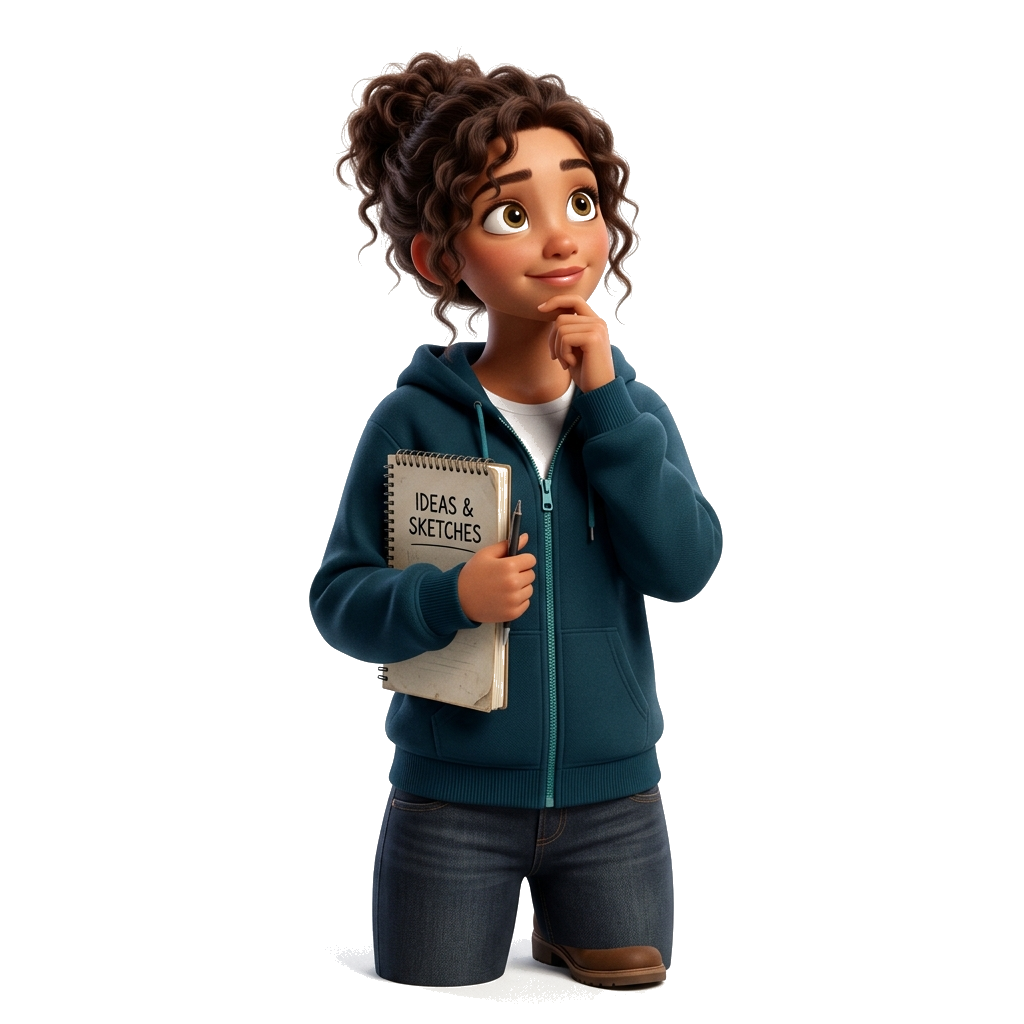
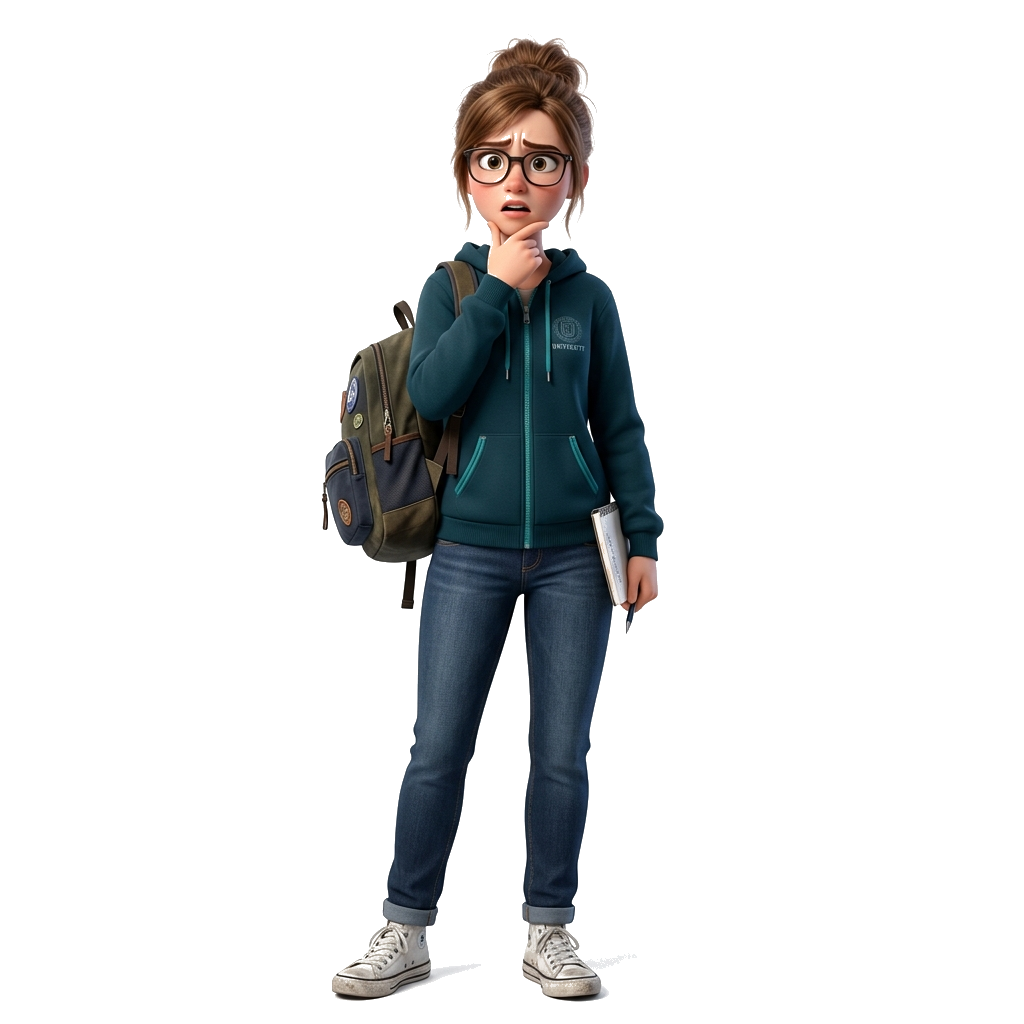
guiest hero v5

Changed region(s): [[0.2812, 0.0312, 0.7188, 1.0]]

diff --git a/src/components/home/GuestHero.jsx b/src/components/home/GuestHero.jsx
@@ -1,30 +1,46 @@
 import React from 'react';
 import { motion } from 'framer-motion';
 import {
-  Sparkles, ArrowRight, CheckCircle2, Building2,
+  ArrowRight, CheckCircle2, Building2,
   GraduationCap, Users, Award, Globe, ShieldCheck
 } from 'lucide-react';
 import { useAuth } from '../../context/AuthContext';
+import Particles from './HeroOnboarding/Particles';
 
-/* ── Thought Bubble Component (Pops out from around avatar body) ── */
-function ThoughtBubble({ text, className, delay = 0 }) {
+/* ── Surrounding Thought Bubble (Shoots out from body to surrounding 4 positions) ── */
+function SurroundingThoughtBubble({ text, className, delay = 0, initialOffset = { x: 0, y: 20 }, tailPosition = "bottom-left" }) {
+  const getTailClass = () => {
+    switch (tailPosition) {
+      case 'bottom-right':
+        return 'absolute -bottom-1.5 right-4 sm:right-6 w-3 h-3 bg-white dark:bg-zinc-900 border-r border-b border-[#0097B2]/30 dark:border-zinc-800 rotate-45';
+      case 'bottom-left':
+        return 'absolute -bottom-1.5 left-4 sm:left-6 w-3 h-3 bg-white dark:bg-zinc-900 border-r border-b border-[#0097B2]/30 dark:border-zinc-800 rotate-45';
+      case 'right':
+        return 'absolute top-3 -right-1.5 w-3 h-3 bg-white dark:bg-zinc-900 border-t border-r border-[#0097B2]/30 dark:border-zinc-800 rotate-45';
+      case 'top-left':
+        return 'absolute -top-1.5 left-4 sm:left-6 w-3 h-3 bg-white dark:bg-zinc-900 border-t border-l border-[#0097B2]/30 dark:border-zinc-800 rotate-45';
+      default:
+        return 'absolute -bottom-1.5 left-4 sm:left-6 w-3 h-3 bg-white dark:bg-zinc-900 border-r border-b border-[#0097B2]/30 dark:border-zinc-800 rotate-45';
+    }
+  };
+
   return (
     <motion.div
-      initial={{ opacity: 0, scale: 0, y: 35, x: -15 }}
-      animate={{ opacity: 1, scale: 1, y: 0, x: 0 }}
+      initial={{ opacity: 0, scale: 0, ...initialOffset }}
+      animate={{ opacity: 1, scale: 1, x: 0, y: 0 }}
       transition={{
-        duration: 0.5,
+        duration: 0.55,
         delay: delay,
         type: 'spring',
-        stiffness: 240,
-        damping: 18
+        stiffness: 220,
+        damping: 16
       }}
-      whileHover={{ scale: 1.07, y: -4, zIndex: 30 }}
-      className={`relative px-3.5 py-2 sm:px-4 sm:py-2.5 rounded-2xl bg-white/95 dark:bg-zinc-900/95 backdrop-blur-md border border-[#0097B2]/25 dark:border-zinc-800 shadow-lg shadow-[#0097B2]/10 text-slate-800 dark:text-zinc-200 text-[11px] sm:text-xs font-extrabold whitespace-nowrap cursor-pointer z-20 ${className}`}
+      whileHover={{ scale: 1.08, y: -4, zIndex: 40 }}
+      className={`absolute px-2.5 py-1.5 sm:px-4 sm:py-2.5 rounded-2xl bg-white/95 dark:bg-zinc-900/95 backdrop-blur-md border border-[#0097B2]/30 dark:border-zinc-800 shadow-xl shadow-[#0097B2]/15 text-slate-800 dark:text-zinc-100 text-[10px] sm:text-xs font-extrabold whitespace-nowrap cursor-pointer z-30 ${className}`}
     >
       <span className="relative z-10">{text}</span>
-      {/* Speech bubble tail indicator */}
-      <div className="absolute -bottom-1.5 left-4 w-3 h-3 bg-white dark:bg-zinc-900 border-r border-b border-[#0097B2]/25 dark:border-zinc-800 rotate-45" />
+      {/* Speech bubble tail indicator pointing directly to avatar */}
+      <div className={getTailClass()} />
     </motion.div>
   );
 }
@@ -33,9 +49,9 @@ export default function GuestHero() {
   const { openAuthModal } = useAuth();
 
   return (
-    <section className="relative overflow-hidden pt-8 pb-16 min-h-[90vh] flex flex-col justify-between">
+    <section className="relative overflow-hidden pt-6 sm:pt-8 pb-12 sm:pb-16 min-h-[90vh] flex flex-col justify-between">
       
-      {/* ── Background: Brand Academic Clarity Palette (Ice Teal → Crisp White → Ice Teal) ── */}
+      {/* ── Background: Brand Academic Clarity Palette ── */}
       <div
         className="absolute inset-0 -z-20"
         style={{
@@ -51,52 +67,85 @@ export default function GuestHero() {
         }}
       />
 
-      {/* Glowing Ambient Radial Orbs in Brand Teal */}
-      <div className="absolute top-10 left-10 w-96 h-96 bg-[#0097B2]/10 dark:bg-[#0097B2]/20 rounded-full blur-3xl pointer-events-none -z-10 animate-pulse" />
-      <div className="absolute bottom-10 right-10 w-96 h-96 bg-[#004B59]/10 dark:bg-[#004B59]/20 rounded-full blur-3xl pointer-events-none -z-10 animate-pulse" />
+      {/* ── Floating ambient animated particles (From Login Hero) ── */}
+      <Particles />
 
-      {/* Decorative Background Doodles (Question marks & Lightbulb aura) */}
-      <div className="absolute top-12 left-12 text-[#0097B2]/30 dark:text-[#0097B2]/40 text-5xl font-black select-none pointer-events-none -z-10 animate-bounce" style={{ animationDuration: '4s' }}>
+      {/* Glowing Ambient Radial Orbs in Brand Teal */}
+      <div className="absolute top-10 left-10 w-72 sm:w-96 h-72 sm:h-96 bg-[#0097B2]/10 dark:bg-[#0097B2]/20 rounded-full blur-3xl pointer-events-none -z-10 animate-pulse" />
+      <div className="absolute bottom-10 right-10 w-72 sm:w-96 h-72 sm:h-96 bg-[#004B59]/10 dark:bg-[#004B59]/20 rounded-full blur-3xl pointer-events-none -z-10 animate-pulse" />
+
+      {/* Decorative Background Doodles */}
+      <div className="absolute top-12 left-4 sm:left-12 text-[#0097B2]/30 dark:text-[#0097B2]/40 text-4xl sm:text-5xl font-black select-none pointer-events-none -z-10 animate-bounce" style={{ animationDuration: '4s' }}>
         ?
       </div>
-      <div className="absolute top-28 left-1/4 text-[#004B59]/25 text-3xl font-black select-none pointer-events-none -z-10">
+      <div className="absolute top-28 left-1/4 text-[#004B59]/25 text-2xl sm:text-3xl font-black select-none pointer-events-none -z-10">
         ?
       </div>
-      <div className="absolute top-16 right-16 text-amber-400/50 text-4xl select-none pointer-events-none -z-10">
+      <div className="absolute top-16 right-4 sm:right-16 text-amber-400/50 text-3xl sm:text-4xl select-none pointer-events-none -z-10">
         💡
       </div>
 
       <div className="max-w-7xl mx-auto px-4 sm:px-6 lg:px-8 w-full relative z-10 my-auto">
         
         {/* Top Mission Pill Tag */}
-        <div className="flex justify-center mb-4">
+        <div className="flex justify-center mb-4 sm:mb-6">
           <motion.div
             initial={{ opacity: 0, y: -10 }}
             animate={{ opacity: 1, y: 0 }}
             transition={{ duration: 0.3 }}
-            className="inline-flex items-center gap-2 px-4 py-1.5 rounded-full bg-white/90 dark:bg-zinc-900/90 backdrop-blur-md border border-[#0097B2]/30 dark:border-[#0097B2]/40 shadow-sm text-xs font-bold text-slate-700 dark:text-zinc-200"
+            className="inline-flex items-center gap-2 px-3.5 py-1.5 rounded-full bg-white/90 dark:bg-zinc-900/90 backdrop-blur-md border border-[#0097B2]/30 dark:border-[#0097B2]/40 shadow-sm text-[11px] sm:text-xs font-bold text-slate-700 dark:text-zinc-200"
           >
-            <Sparkles className="w-3.5 h-3.5 text-[#0097B2] dark:text-[#1AB0CB]" />
+            <GraduationCap className="w-3.5 h-3.5 text-[#0097B2] dark:text-[#1AB0CB]" />
             <span>Your Dream <strong className="text-[#0097B2] dark:text-[#1AB0CB]">UNI</strong>. Your Future. Our Mission.</span>
           </motion.div>
         </div>
 
-        {/* ── Main 3-Column Layout ── */}
-        <div className="grid grid-cols-1 lg:grid-cols-12 gap-6 items-center">
+        {/* ── Main 3-Column Layout (Fully Mobile Responsive) ── */}
+        <div className="grid grid-cols-1 lg:grid-cols-12 gap-8 lg:gap-6 items-center">
           
-          {/* ── LEFT COLUMN: Confused Avatar Slides in from Left, then Questions Rise Up Around Body ── */}
-          <div className="lg:col-span-3 flex flex-col items-center relative order-2 lg:order-1">
-            <div className="relative w-full max-w-[280px] sm:max-w-[320px] lg:max-w-full flex flex-col items-center">
+          {/* ── LEFT COLUMN: Confused Female Avatar + 4 Surrounding Questions ── */}
+          <div className="lg:col-span-3 flex flex-col items-center relative order-2 lg:order-1 min-h-[340px] sm:min-h-[400px] justify-center overflow-x-visible">
+            <div className="relative w-full max-w-[300px] sm:max-w-[340px] lg:max-w-full flex items-center justify-center min-h-[340px]">
               
-              {/* Floating Doubts Speech Bubbles (Pop up from around her body AFTER avatar arrives) */}
-              <div className="flex flex-col gap-2.5 w-full items-start mb-2 relative z-20">
-                <ThoughtBubble text="Which UNI is right for me?" delay={0.65} />
-                <ThoughtBubble text="How to get High CTO?" className="ml-6 sm:ml-10" delay={0.8} />
-                <ThoughtBubble text="Where can I find real scholarships?" delay={0.95} />
-                <ThoughtBubble text="I wish I had someone to guide me..." className="ml-4" delay={1.1} />
-              </div>
+              {/* 4 Surrounding Thought Bubbles (Mobile Optimized Positioning) */}
+              
+              {/* 1. Top-Left */}
+              <SurroundingThoughtBubble
+                text="Which UNI is right for me?"
+                delay={0.65}
+                initialOffset={{ x: 40, y: 30 }}
+                tailPosition="bottom-right"
+                className="-top-3 left-0 sm:-left-6"
+              />
 
-              {/* 3D Animated Female Student Avatar (Slides in from Left, then continuous floating) */}
+              {/* 2. Top-Right */}
+              <SurroundingThoughtBubble
+                text="How to get High CTO?"
+                delay={0.8}
+                initialOffset={{ x: -40, y: 30 }}
+                tailPosition="bottom-left"
+                className="top-8 right-0 sm:-right-8"
+              />
+
+              {/* 3. Mid-Left */}
+              <SurroundingThoughtBubble
+                text="Where can I find real scholarships?"
+                delay={0.95}
+                initialOffset={{ x: 40, y: -20 }}
+                tailPosition="right"
+                className="top-36 left-0 sm:-left-10"
+              />
+
+              {/* 4. Bottom-Right */}
+              <SurroundingThoughtBubble
+                text="I wish I had someone to guide me..."
+                delay={1.1}
+                initialOffset={{ x: -30, y: -30 }}
+                tailPosition="top-left"
+                className="bottom-0 right-0 sm:-right-6"
+              />
+
+              {/* 3D Animated Female Student Avatar with Explicit Confused Face */}
               <motion.div
                 initial={{ opacity: 0, x: -140, scale: 0.8 }}
                 animate={{
@@ -111,7 +160,7 @@ export default function GuestHero() {
                 }}
                 className="relative z-10 cursor-pointer group/avatar"
               >
-                {/* Continuous Breathing Float Motion (Nested) */}
+                {/* Continuous Breathing Float Motion */}
                 <motion.div
                   animate={{
                     y: [0, -10, 0],
@@ -142,8 +191,8 @@ export default function GuestHero() {
 
                   <img
                     src="/img/confused_female_student.png"
-                    alt="Confused Student thinking about university options"
-                    className="w-48 sm:w-56 lg:w-64 h-auto object-contain drop-shadow-[0_15px_30px_rgba(0,151,178,0.2)] group-hover/avatar:drop-shadow-[0_20px_40px_rgba(0,151,178,0.35)] transition-all duration-300"
+                    alt="Confused Student with doubt expression"
+                    className="w-48 sm:w-60 lg:w-72 max-h-[340px] sm:max-h-[380px] h-auto object-contain drop-shadow-[0_15px_30px_rgba(0,151,178,0.25)] group-hover/avatar:drop-shadow-[0_20px_40px_rgba(0,151,178,0.4)] transition-all duration-300"
                   />
                 </motion.div>
               </motion.div>
@@ -159,9 +208,9 @@ export default function GuestHero() {
               initial={{ opacity: 0, y: 15 }}
               animate={{ opacity: 1, y: 0 }}
               transition={{ duration: 0.4, delay: 0.1 }}
-              className="text-3xl sm:text-4xl lg:text-5xl font-black text-slate-900 dark:text-white leading-[1.15] tracking-tight mb-3"
+              className="text-2xl sm:text-4xl lg:text-5xl font-black text-slate-900 dark:text-white leading-[1.2] lg:leading-[1.15] tracking-tight mb-3 px-2 sm:px-0"
             >
-              Confused About Your Future? <br />
+              Confused About Your Future? <br className="hidden sm:inline" />
               We Have <span className="bg-gradient-to-r from-[#0097B2] via-[#00788E] to-[#004B59] bg-clip-text text-transparent">The Solution.</span>
             </motion.h1>
 
@@ -170,9 +219,9 @@ export default function GuestHero() {
               initial={{ opacity: 0, y: 10 }}
               animate={{ opacity: 1, y: 0 }}
               transition={{ duration: 0.4, delay: 0.2 }}
-              className="text-xs sm:text-sm text-slate-600 dark:text-zinc-400 font-semibold max-w-lg mb-6 leading-relaxed"
+              className="text-xs sm:text-sm text-slate-600 dark:text-zinc-400 font-semibold max-w-lg mb-6 leading-relaxed px-3 sm:px-0"
             >
-              High CTOs. Top Universities. Real Scholarships. <br />
+              High CTOs. Top Universities. Real Scholarships. <br className="hidden sm:inline" />
               Guided by Alumni Who've Been There.
             </motion.p>
 
@@ -181,10 +230,10 @@ export default function GuestHero() {
               initial={{ opacity: 0, y: 20 }}
               animate={{ opacity: 1, y: 0 }}
               transition={{ duration: 0.4, delay: 0.3 }}
-              className="grid grid-cols-1 sm:grid-cols-3 gap-3 w-full mb-6"
+              className="grid grid-cols-1 sm:grid-cols-3 gap-3 w-full mb-6 px-2 sm:px-0"
             >
               {/* Card 1: High CTO Universities */}
-              <div className="p-4 rounded-2xl bg-white dark:bg-zinc-900 border border-slate-200/80 dark:border-zinc-800 shadow-md hover:shadow-xl hover:border-[#0097B2]/50 hover:-translate-y-1 transition-all duration-300 flex flex-col items-center text-center group">
+              <div className="p-3.5 sm:p-4 rounded-2xl bg-white dark:bg-zinc-900 border border-slate-200/80 dark:border-zinc-800 shadow-md hover:shadow-xl hover:border-[#0097B2]/50 hover:-translate-y-1 transition-all duration-300 flex flex-col items-center text-center group">
                 <div className="w-10 h-10 rounded-xl bg-[#0097B2]/10 text-[#0097B2] dark:text-[#1AB0CB] flex items-center justify-center mb-2.5 group-hover:scale-110 transition-transform">
                   <Building2 className="w-5 h-5" />
                 </div>
@@ -197,7 +246,7 @@ export default function GuestHero() {
               </div>
 
               {/* Card 2: Smart Scholarship Finder */}
-              <div className="p-4 rounded-2xl bg-white dark:bg-zinc-900 border border-slate-200/80 dark:border-zinc-800 shadow-md hover:shadow-xl hover:border-emerald-500/50 hover:-translate-y-1 transition-all duration-300 flex flex-col items-center text-center group">
+              <div className="p-3.5 sm:p-4 rounded-2xl bg-white dark:bg-zinc-900 border border-slate-200/80 dark:border-zinc-800 shadow-md hover:shadow-xl hover:border-emerald-500/50 hover:-translate-y-1 transition-all duration-300 flex flex-col items-center text-center group">
                 <div className="w-10 h-10 rounded-xl bg-emerald-50 dark:bg-emerald-950/40 text-emerald-600 dark:text-emerald-400 flex items-center justify-center mb-2.5 group-hover:scale-110 transition-transform">
                   <GraduationCap className="w-5 h-5" />
                 </div>
@@ -210,7 +259,7 @@ export default function GuestHero() {
               </div>
 
               {/* Card 3: Alumni Mentor Guidance */}
-              <div className="p-4 rounded-2xl bg-white dark:bg-zinc-900 border border-slate-200/80 dark:border-zinc-800 shadow-md hover:shadow-xl hover:border-[#004B59]/50 hover:-translate-y-1 transition-all duration-300 flex flex-col items-center text-center group">
+              <div className="p-3.5 sm:p-4 rounded-2xl bg-white dark:bg-zinc-900 border border-slate-200/80 dark:border-zinc-800 shadow-md hover:shadow-xl hover:border-[#004B59]/50 hover:-translate-y-1 transition-all duration-300 flex flex-col items-center text-center group">
                 <div className="w-10 h-10 rounded-xl bg-[#004B59]/10 text-[#004B59] dark:text-[#00677B] flex items-center justify-center mb-2.5 group-hover:scale-110 transition-transform">
                   <Users className="w-5 h-5" />
                 </div>
@@ -228,19 +277,19 @@ export default function GuestHero() {
               initial={{ opacity: 0, scale: 0.95 }}
               animate={{ opacity: 1, scale: 1 }}
               transition={{ duration: 0.4, delay: 0.4 }}
-              className="flex flex-col items-center gap-3"
+              className="flex flex-col items-center gap-3 w-full px-2 sm:px-0"
             >
               <button
                 onClick={openAuthModal}
-                className="px-8 py-3.5 rounded-full bg-gradient-to-r from-[#0097B2] via-[#00788E] to-[#004B59] text-white font-black text-sm sm:text-base shadow-lg shadow-[#0097B2]/30 hover:shadow-xl hover:shadow-[#0097B2]/40 hover:scale-105 active:scale-95 transition-all duration-300 flex items-center gap-2.5 cursor-pointer group"
+                className="w-full sm:w-auto px-8 py-3.5 rounded-full bg-gradient-to-r from-[#0097B2] via-[#00788E] to-[#004B59] text-white font-black text-sm sm:text-base shadow-lg shadow-[#0097B2]/30 hover:shadow-xl hover:shadow-[#0097B2]/40 hover:scale-105 active:scale-95 transition-all duration-300 flex items-center justify-center gap-2.5 cursor-pointer group"
               >
                 <span>Join Edwaay Today</span>
                 <ArrowRight className="w-4 h-4 group-hover:translate-x-1 transition-transform" />
               </button>
 
               {/* Trust Proof Row */}
-              <div className="flex items-center gap-3 mt-1 text-slate-500 dark:text-zinc-400 text-xs font-semibold">
-                <p className="text-[11px]">Thousands of students. One platform. Endless possibilities.</p>
+              <div className="flex flex-wrap items-center justify-center gap-2 sm:gap-3 mt-1 text-slate-500 dark:text-zinc-400 text-xs font-semibold text-center">
+                <p className="text-[10.5px] sm:text-[11px]">Thousands of students. One platform. Endless possibilities.</p>
                 <div className="flex items-center gap-2">
                   <div className="flex -space-x-2">
                     <img className="w-6 h-6 rounded-full border-2 border-white dark:border-zinc-900 object-cover" src="https://images.unsplash.com/photo-1534528741775-53994a69daeb?auto=format&fit=crop&q=80&w=100" alt="Student" />
@@ -257,22 +306,22 @@ export default function GuestHero() {
 
           </div>
 
-          {/* ── RIGHT COLUMN: Mentor Avatar Slides in from Right, then Solution Box Pops Up ── */}
+          {/* ── RIGHT COLUMN: Mentor Avatar + Solution Checklist ── */}
           <div className="lg:col-span-3 flex flex-col items-center relative order-3">
             <div className="relative w-full max-w-[280px] sm:max-w-[320px] lg:max-w-full flex flex-col items-center">
               
-              {/* Floating Speech Bubble Above Guide (Pops up AFTER mentor arrives) */}
+              {/* Floating Speech Bubble Above Guide */}
               <motion.div
                 initial={{ opacity: 0, scale: 0, y: 20 }}
                 animate={{ opacity: 1, scale: 1, y: 0 }}
                 transition={{ duration: 0.4, delay: 0.8, type: 'spring', stiffness: 220 }}
                 whileHover={{ scale: 1.05 }}
-                className="px-4 py-2 rounded-2xl bg-white/95 dark:bg-zinc-900/95 backdrop-blur-md border border-[#0097B2]/30 dark:border-zinc-800 shadow-md text-xs font-bold text-slate-800 dark:text-zinc-200 mb-2 cursor-pointer"
+                className="px-3.5 py-1.5 sm:px-4 sm:py-2 rounded-2xl bg-white/95 dark:bg-zinc-900/95 backdrop-blur-md border border-[#0097B2]/30 dark:border-zinc-800 shadow-md text-[11px] sm:text-xs font-bold text-slate-800 dark:text-zinc-200 mb-2 cursor-pointer"
               >
                 <span className="text-[#0097B2] dark:text-[#1AB0CB] font-black">Edwaay</span> has Everything you need!
               </motion.div>
 
-              {/* 3D Animated Male Mentor Avatar (Slides in from Right) */}
+              {/* 3D Animated Male Mentor Avatar */}
               <motion.div
                 initial={{ opacity: 0, x: 140, scale: 0.8 }}
                 animate={{
@@ -319,12 +368,12 @@ export default function GuestHero() {
                   <img
                     src="/img/happy_mentor_student.png"
                     alt="Edwaay Happy Student Mentor guiding options"
-                    className="w-48 sm:w-56 lg:w-64 h-auto object-contain drop-shadow-[0_15px_30px_rgba(0,75,89,0.2)] group-hover/mentor:drop-shadow-[0_20px_40px_rgba(0,151,178,0.35)] transition-all duration-300"
+                    className="w-48 sm:w-60 lg:w-72 max-h-[340px] sm:max-h-[380px] h-auto object-contain drop-shadow-[0_15px_30px_rgba(0,75,89,0.2)] group-hover/mentor:drop-shadow-[0_20px_40px_rgba(0,151,178,0.35)] transition-all duration-300"
                   />
                 </motion.div>
               </motion.div>
 
-              {/* Floating Solution Checklist Box (Pops up from around mentor body) */}
+              {/* Floating Solution Checklist Box */}
               <motion.div
                 initial={{ opacity: 0, scale: 0.5, y: 30 }}
                 animate={{ opacity: 1, scale: 1, y: 0 }}

diff --git a/src/components/common/AuthModal.jsx b/src/components/common/AuthModal.jsx
@@ -1,6 +1,6 @@
 import React, { useState } from 'react';
 import { motion, AnimatePresence } from 'framer-motion';
-import { X, Mail, Lock, User, Sparkles, CheckCircle2, ArrowRight } from 'lucide-react';
+import { X, Mail, Lock, User, GraduationCap, CheckCircle2, ArrowRight } from 'lucide-react';
 import { useAuth } from '../../context/AuthContext';
 
 export default function AuthModal() {
@@ -87,7 +87,7 @@ export default function AuthModal() {
               <X className="w-4 h-4" />
             </button>
             <div className="inline-flex items-center gap-1.5 px-3 py-1 rounded-full bg-white/20 text-xs font-bold mb-3 backdrop-blur-sm">
-              <Sparkles className="w-3.5 h-3.5" />
+              <GraduationCap className="w-3.5 h-3.5" />
               <span>Edwaay Student Portal</span>
             </div>
             <h2 className="text-2xl font-black tracking-tight">
@@ -136,7 +136,7 @@ export default function AuthModal() {
                 onClick={handleFarhanLogin}
                 className="py-2.5 px-3 rounded-xl bg-[#E6F5F7] dark:bg-[#0097B2]/20 border border-[#0097B2]/30 text-[#0097B2] dark:text-[#1AB0CB] text-xs font-extrabold flex items-center justify-center gap-1.5 hover:bg-[#0097B2]/15 transition-all cursor-pointer shadow-sm"
               >
-                <Sparkles className="w-3.5 h-3.5" />
+                <User className="w-3.5 h-3.5" />
                 <span>farhan@gmail.com</span>
               </button>
               <button
@@ -144,7 +144,7 @@ export default function AuthModal() {
                 onClick={handleDemoLogin}
                 className="py-2.5 px-3 rounded-xl bg-[#E6F5F7] dark:bg-[#004B59]/30 border border-[#004B59]/40 text-[#004B59] dark:text-[#1AB0CB] text-xs font-extrabold flex items-center justify-center gap-1.5 hover:bg-[#004B59]/20 transition-all cursor-pointer shadow-sm"
               >
-                <Sparkles className="w-3.5 h-3.5" />
+                <User className="w-3.5 h-3.5" />
                 <span>Sarah (Demo)</span>
               </button>
             </div>
